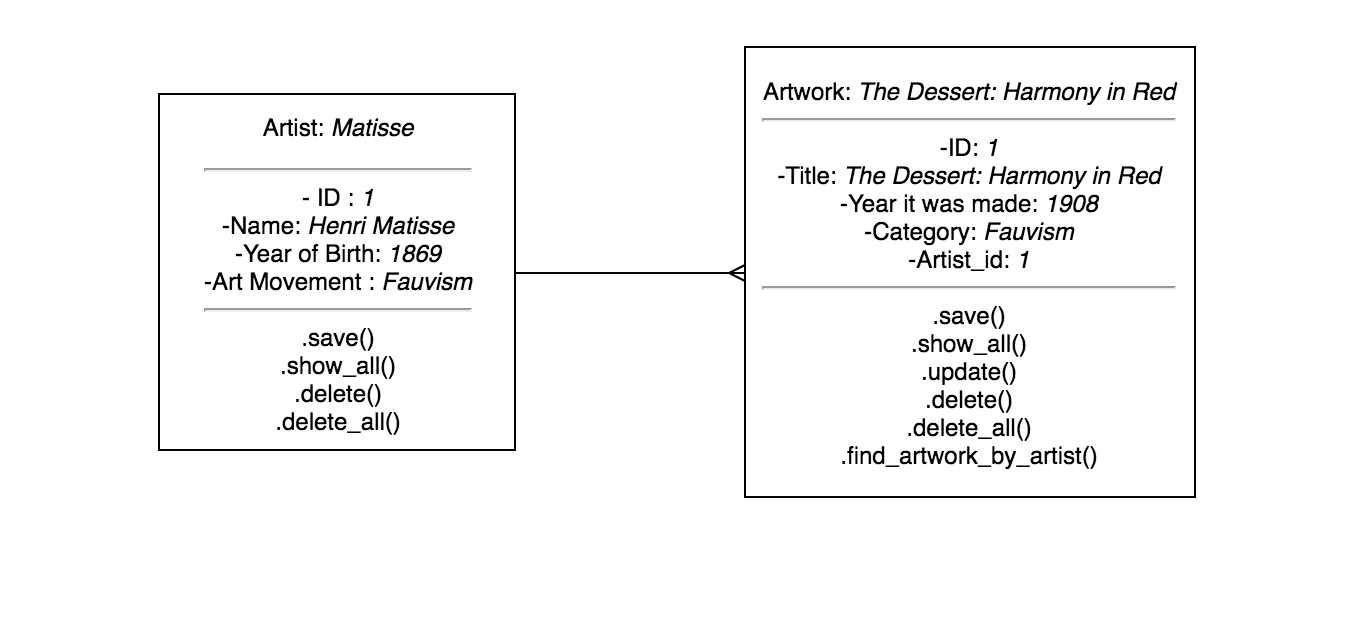
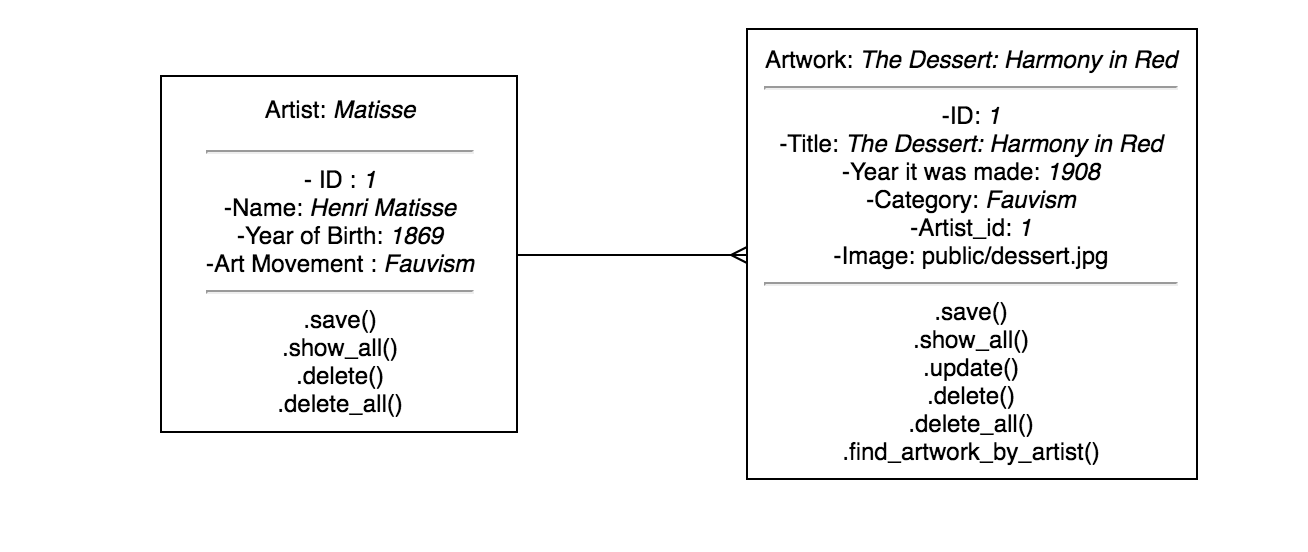
adding much to specs

Changed region(s): [[0.1223, 0.0308, 0.9174, 0.8931], [0.1835, 0.1848, 0.3364, 0.2156]]

diff --git a/specs/artwork_spec.rb b/specs/artwork_spec.rb
@@ -1,0 +1,117 @@
+require("minitest/autorun")
+require("minitest/rg")
+require("pry")
+require_relative("../models/artist")
+require_relative("../models/artwork")
+
+class ArtworkTest < MiniTest::Test
+
+  def setup()
+    Artist.delete_all()
+    @artist1 =Artist.new({
+      "name" => "Henri Matisse",
+      "birth_year" => 1869,
+      "art_movement" => "Fauvism"
+      })
+
+      @artist2 = Artist.new({
+        "name" => "Lucian Freud",
+        "birth_year" => 1922,
+        "art_movement" => "Portrait Realism"
+        })
+
+        @artist1.save()
+        @artist2.save()
+        Artwork.delete_all()
+        @artwork1 = Artwork.new({
+          "title" => "The Dessert Harmony In Red",
+          "materials" => "Oil on Canvas",
+          "category" => "Fauvism",
+          "creation_year" => 1908,
+          "image" => "public/the_dessert_harmony_in_red.jpg",
+          "artist_id" => @artist1.id
+          })
+          @artwork1.save()
+
+          @artwork2 = Artwork.new({
+            "title" => "Reflection (Self-Portrait)",
+            "materials" => "Oil on Canvas",
+            "category" => "Expressionism",
+            "creation_year" => 1985,
+            "image" => "public/Reflection_self_portrait.jpg",
+            "artist_id" => @artist2.id
+            })
+            @artwork2.save()
+
+          end
+
+          def test_title()
+            result = @artwork1.title()
+            assert_equal("The Dessert Harmony In Red", result)
+          end
+
+          def test_materials()
+            result = @artwork1.materials()
+            assert_equal("Oil on Canvas", result )
+          end
+
+          def test_category()
+            result = @artwork2.category()
+            assert_equal("Expressionism", result)
+          end
+
+          def test_creation_year()
+            result = @artwork2.creation_year()
+            assert_equal(1985, result)
+          end
+
+          def test_image()
+            result = @artwork2.image()
+            assert_equal("public/Reflection_self_portrait.jpg", result)
+          end
+
+          def test_artist_id()
+            result = @artwork1.artist_id()
+            assert_equal(@artist1.id, result)
+          end
+
+
+          def test_save_artwork()
+            sql = "SELECT * FROM artworks WHERE id = $1"
+            values = [@artwork1.id()]
+            results = SqlRunner.run(sql, values)
+            assert_equal(results.first()["category"], "Fauvism")
+          end
+
+          def test_find_artwork()
+            sql = "SELECT * FROM artworks WHERE id = $1"
+            values = [@artwork1.id()]
+            artwork = SqlRunner.run(sql, values)
+            result = Artwork.new(artwork.first)
+            assert_equal(result.creation_year, 1908)
+          end
+
+          def test_update_artwork()
+            @artwork2.title = "The Snail"
+            @artwork2.update()
+            assert_equal("The Snail", @artwork2.title())
+          end
+
+          def test_delete_artwork()
+            @artwork1.delete()
+            sql = "SELECT * FROM artworks"
+            results = SqlRunner.run(sql)
+            artwork_data = results.map{|result| Artwork.new(result)}
+            assert_equal("Expressionism", artwork_data.first.category)
+          end
+
+          def test_delete_all_artworks()
+            Artwork.delete_all()
+            sql = "SELECT * FROM artworks"
+            results = SqlRunner.run(sql)
+            artwork_data = results.map{|result| Artwork.new(result)}
+            assert_equal([], artwork_data)
+          end
+
+
+        end

diff --git a/specs/artist_spec.rb b/specs/artist_spec.rb
@@ -1,0 +1,71 @@
+require("minitest/autorun")
+require("minitest/rg")
+require("pry")
+require_relative("../models/artist")
+
+class ArtistTest < MiniTest::Test
+
+  def setup()
+    Artist.delete_all()
+    @artist1 =Artist.new({
+      "name" => "Henri Matisse",
+      "birth_year" => 1869,
+      "art_movement" => "Fauvism"
+      })
+
+      @artist2 = Artist.new({
+        "name" => "Lucian Freud",
+        "birth_year" => 1922,
+        "art_movement" => "Portrait Realism"
+        })
+
+        @artist1.save()
+        @artist2.save()
+      end
+
+      def test_name()
+        result = @artist1.name()
+        assert_equal("Henri Matisse", result)
+      end
+
+      def test_birth_year()
+        result = @artist1.birth_year()
+        assert_equal(1869, result)
+      end
+
+      def test_art_movement()
+        result = @artist1.art_movement()
+        assert_equal("Fauvism", result)
+      end
+
+      def test_save_artist()
+        sql = "SELECT * FROM artists WHERE id = $1"
+        values = [@artist1.id()]
+        results = SqlRunner.run(sql, values)
+        assert_equal("Fauvism", results.first()["art_movement"])
+      end
+
+      # def test_show_all_artists()
+      #   sql = "SELECT * FROM artists;"
+      #   result = artists.map {|artist| Artist.new(artist)}
+      #   return result
+      #   assert_equal(result.art_movement, "Fauvism, Portrait Realism")
+      # end
+
+      def test_delete_artist()
+        @artist1.delete()
+        sql = "SELECT * FROM artists"
+        results = SqlRunner.run(sql)
+        artist_data = results.map{|result| Artist.new(result)}
+        assert_equal("Portrait Realism", artist_data.first.art_movement)
+      end
+
+      def test_delete_all_artists()
+        Artist.delete_all()
+        sql = "SELECT * FROM artists"
+        results = SqlRunner.run(sql)
+        artist_data = results.map{|result| Artist.new(result)}
+        assert_equal([], artist_data)
+      end
+
+    end

diff --git a/models/artwork.rb b/models/artwork.rb
@@ -1,0 +1,63 @@
+require_relative('../db/sqlrunner')
+
+class Artwork
+
+attr_reader :id
+attr_accessor :title, :materials, :category, :creation_year, :image, :artist_id
+
+def initialize(options)
+  @id = options['id'].to_i
+  @title = options['title']
+  @materials = options['materials']
+  @category = options['category']
+  @creation_year = options['creation_year'].to_i
+  @image = options['image']
+  @artist_id = options['artist_id']
+end
+
+def save()
+  sql = "INSERT INTO artworks (title, materials, category,
+  creation_year, image, artist_id)   VALUES ($1, $2, $3, $4, $5, $6)
+    RETURNING *"
+  values = [@title, @materials, @category, @creation_year, @image, @artist_id]
+  artwork_data = SqlRunner.run(sql, values)
+  @id = artwork_data.first()['id'].to_i
+end
+
+def delete()
+  sql = "DELETE FROM artworks where id = $1"
+  values = [@id]
+  SqlRunner.run(sql, values)
+end
+
+def self.delete_all()
+  sql = "DELETE FROM artworks;"
+  SqlRunner.run(sql)
+end
+
+def self.all()
+  sql = "SELECT * FROM artworks"
+  artworks = SqlRunner.run(sql)
+  result = artworks.map {|artwork| Artwork.new(artwork)}
+  return result
+end
+
+def self.find(id)
+  sql = "SELECT * FROM artworks WHERE id = $1"
+  values = [id]
+  artwork = SqlRunner.run(sql, values)
+  result = Artwork.new(artwork.first)
+  return result
+end
+
+def update()
+  sql = "UPDATE artworks SET (title, materials, category,
+  creation_year, image, artist_id)
+  = ($1, $2, $3, $4, $5, $6)
+  WHERE id = $7"
+  values = [@title, @materials, @category, @creation_year, @image, @artist_id, @id]
+  SqlRunner.run(sql, values)
+end
+
+
+end

diff --git a/models/artist.rb b/models/artist.rb
@@ -1,0 +1,42 @@
+require_relative('../db/sqlrunner')
+
+class Artist
+
+  attr_reader :id
+  attr_accessor :name, :birth_year, :art_movement
+
+  def initialize(options)
+    @id = options['id'].to_i
+    @name = options['name']
+    @birth_year = options['birth_year'].to_i
+    @art_movement = options['art_movement']
+  end
+
+def save()
+  sql = "INSERT INTO artists (name, birth_year, art_movement)
+  VALUES ($1, $2, $3)
+  RETURNING *"
+  values = [@name, @birth_year, @art_movement]
+  artist_data = SqlRunner.run(sql, values)
+  @id = artist_data.first()['id'].to_i
+end
+
+def delete()
+  sql = "DELETE FROM artists where id = $1"
+  values = [@id]
+  SqlRunner.run(sql, values)
+end
+
+def self.delete_all()
+  sql = "DELETE FROM artists;"
+  SqlRunner.run(sql)
+end
+
+def self.all()
+  sql = "SELECT * FROM artists;"
+  result = artists.map {|artist| Artist.new(artist)}
+  return result
+end
+
+
+end

diff --git a/db/sqlrunner.rb b/db/sqlrunner.rb
@@ -1,0 +1,14 @@
+require('pg')
+class SqlRunner
+
+  def self.run (sql, values = [])
+    begin
+      db = PG.connect ({dbname: 'gallery', host: 'localhost'})
+      db.prepare("query", sql)
+      result = db.exec_prepared("query", values)
+    ensure
+      db.close() if db != nil
+    end
+    return result
+  end
+end

diff --git a/db/seeds.rb b/db/seeds.rb
@@ -1,0 +1,6 @@
+require_relative('../models/artist')
+require_relative('../models/artwork')
+require('pry')
+
+Artist.delete_all()
+Artwork.delete_all()
